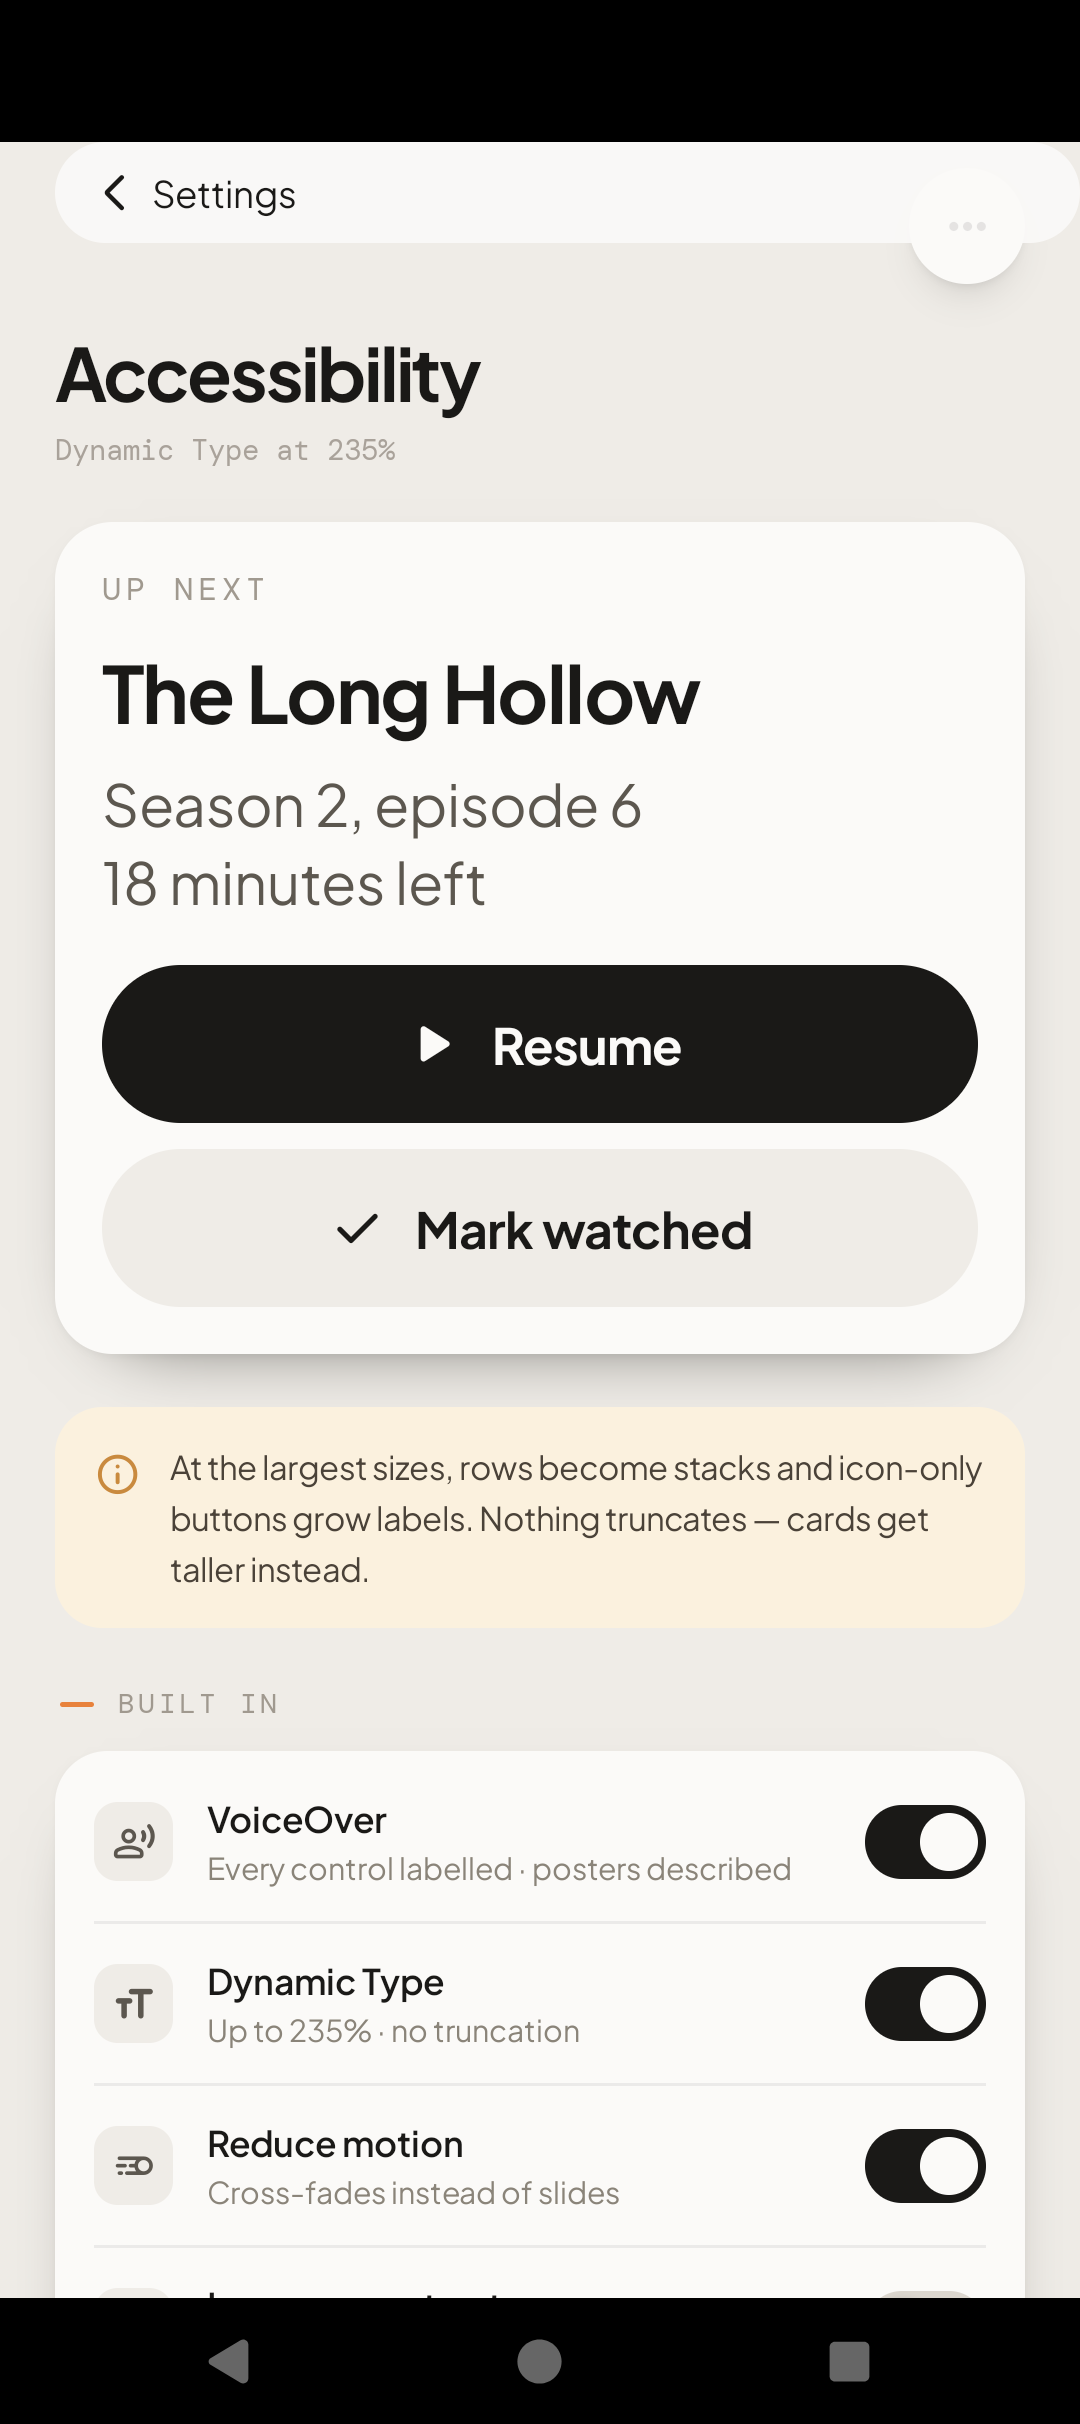
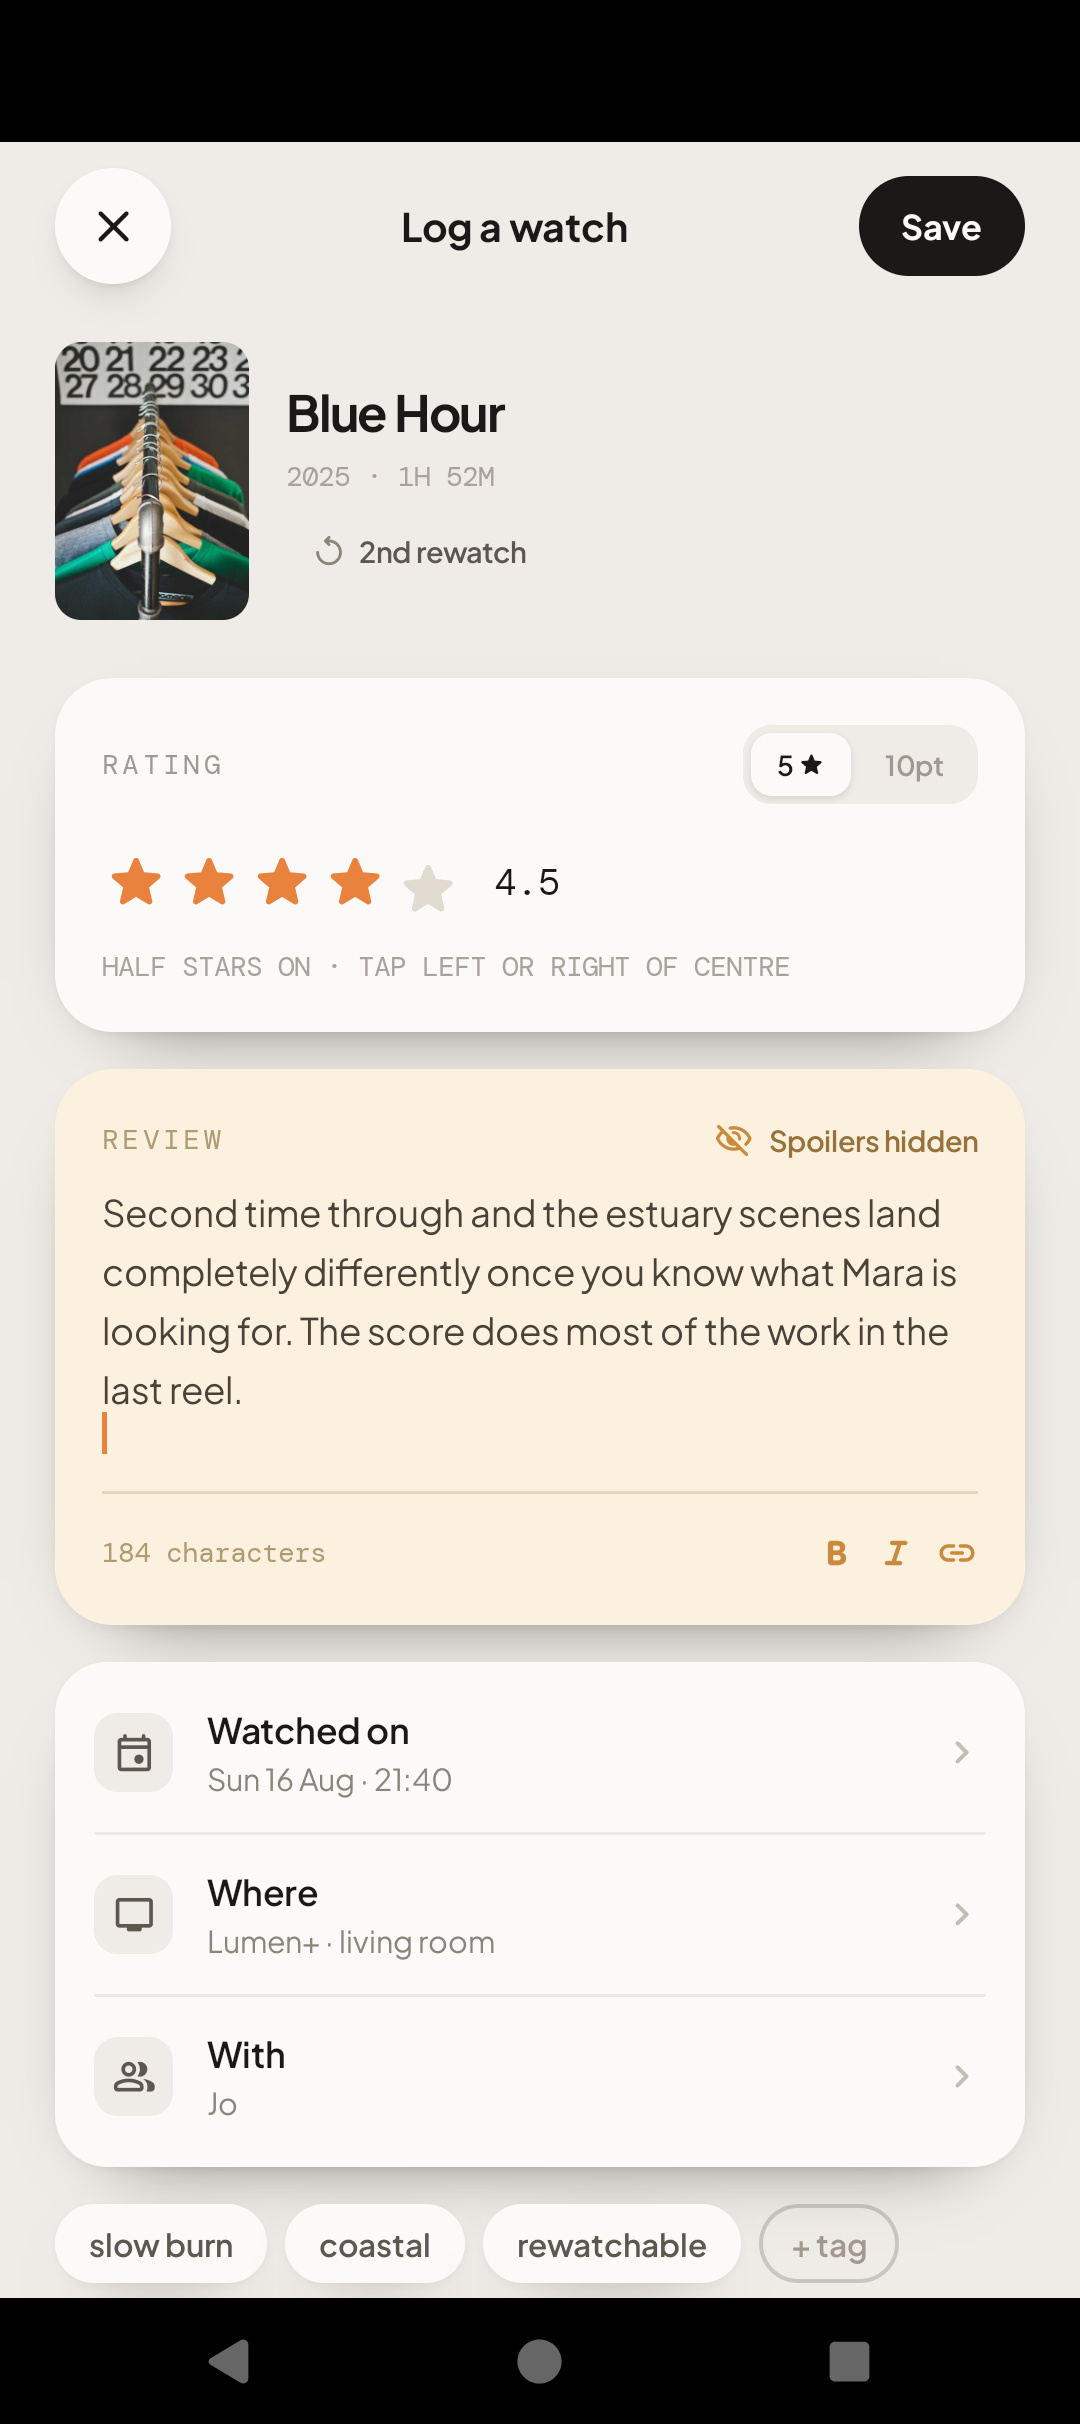
fix(capture): say when the gallery never opened, instead of blaming the scroll
A run that failed to reach the gallery reported all 31 of its screens as
"row never appeared" — which reads as a scrolling problem and is not one.
Nothing had been scrolled, because nothing was there to scroll.

The old code re-tapped the bell once and carried on regardless of whether that
worked. It now retries three times and returns false, and the caller records
"never reached the gallery" — a different sentence for a different cause.

Also raises the row search from 8 swipes to 22: one swipe moves about five
rows and the list is 62 long, so 8 could not reach past row 44 even when
everything else was working.

32, 33 and 34 captured immediately afterwards.

An error message that names the wrong cause is worse than no message. Twice
now this harness has sent me looking at the wrong thing.

diff --git a/bin/capture_all.py b/bin/capture_all.py
@@ -79,14 +79,26 @@ def open_gallery():
     adb("shell", "input", "tap", str(BELL[0]), str(BELL[1]))
     time.sleep(3)
 
-    # Prove we are in the gallery before anyone starts scrolling it.
-    if not any(t == "All screens" for t, _, _ in dump()):
+    # Prove we are in the gallery, and SAY SO if we are not. The earlier
+    # version re-tapped once and carried on regardless, so a run that never
+    # opened the gallery reported every single row as "never appeared" — 31
+    # screens blamed on a scroll limit when nothing had been scrolled at all.
+    for _ in range(3):
+        if any(t == "All screens" for t, _, _ in dump()):
+            return True
         adb("shell", "input", "tap", str(BELL[0]), str(BELL[1]))
         time.sleep(3)
 
+    return False
 
-def find_row(label, scrolls=8):
-    """Scroll the gallery until `label` is on screen; return its tap point."""
+
+def find_row(label, scrolls=22):
+    """Scroll the gallery until `label` is on screen; return its tap point.
+
+    22 attempts, not 8. One swipe moves about five rows and the list is 62
+    long, so eight was enough to reach row 44 and no further — every screen
+    past it reported "never appeared" as though it did not exist.
+    """
     for _ in range(scrolls):
         for text, x, y in dump():
             # Rows sit inside the list; the header is near the top.
@@ -145,9 +157,8 @@ def main():
         if not (lo <= int(number) <= hi):
             continue
 
-        open_gallery()
-        if not foreground():
-            holes.append((number, "app not in foreground"))
+        if not open_gallery():
+            holes.append((number, "never reached the gallery"))
             continue
 
         point = find_row(label)
